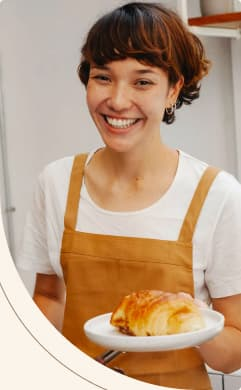
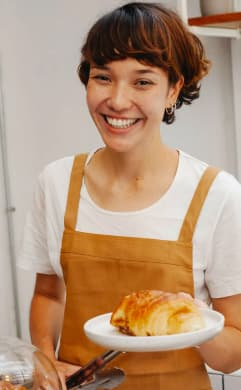
added pseudo ellements

Changed region(s): [[0.0, 0.5231, 0.7842, 1.0], [0.9876, 0.9846, 1.0, 1.0], [0.9876, 0.0, 1.0, 0.0308]]

diff --git a/index.html b/index.html
@@ -88,31 +88,43 @@
           <h2 class="section-title cookers-section-title">
             Наші найкращі<span class="accent"> шеф -кухарі</span>
           </h2>
-          <ul>
-            <li>
-              <article>
-                <img src="./images/Nastya.jpg" alt="Фотографія кухаря Настя" />
-                <h3 class="cookers-title">Настя</h3>
-                <div class="cookers-section-text">
-                  <p>Привіт, я Настя!</p>
-                  <p>Вже 10 років, я втілюю у життя цікаві та смачні ідеї.</p>
-                  <p>Я випечу для вас найсмачніщі вироби!</p>
+          <ul class="cookers-list">
+            <li class="cookers-item">
+              <article class="cookers-card">
+                <img
+                  src="./images/Nastya.jpg"
+                  alt="Фотографія кухаря Настя"
+                  class="cookers-img"
+                />
+                <div class="cookers-article-text">
+                  <h3 class="cookers-title">Настя</h3>
+                  <div class="cookers-section-text">
+                    <p>Привіт, я Настя!</p>
+                    <p>Вже 10 років, я втілюю у життя цікаві та смачні ідеї.</p>
+                    <p>Я випечу для вас найсмачніщі вироби!</p>
+                  </div>
                 </div>
               </article>
             </li>
-            <li>
-              <article>
-                <img src="./images/Vlad.jpg" alt="Фотографія кухаря Влад" />
-                <h3 class="cookers-title">Влад</h3>
-                <div class="cookers-section-text">
-                  <p>Привіт, я Влад!</p>
-                  <p>
-                    Мій кодитерський стаж вже 18 років.
-                    <span lang="en" class="toUppercase">SHOP BEKERY</span> - це
-                    наша любов, з якою ми ділимось кожен раз з Вами через нашу
-                    випічку!
-                  </p>
-                  <p>Я зроблю для вас унікальну начинку на будь який смак!</p>
+            <li class="cookers-item">
+              <article class="cookers-card">
+                <img
+                  src="./images/Vlad.jpg"
+                  alt="Фотографія кухаря Влад"
+                  class="cookers-img"
+                />
+                <div class="cookers-article-text">
+                  <h3 class="cookers-title">Влад</h3>
+                  <div class="cookers-section-text">
+                    <p>Привіт, я Влад!</p>
+                    <p>
+                      Мій кодитерський стаж вже 18 років.
+                      <span lang="en" class="toUppercase">SHOP BEKERY</span> -
+                      це наша любов, з якою ми ділимось кожен раз з Вами через
+                      нашу випічку!
+                    </p>
+                    <p>Я зроблю для вас унікальну начинку на будь який смак!</p>
+                  </div>
                 </div>
               </article>
             </li>
@@ -176,82 +188,92 @@
       </section>
       <section id="contacts-section" class="contacts-section section">
         <div class="container">
-          <h2 class="section-title contacts-section-title">
-            Приєднуйся до мережі пекарень
-          </h2>
-          <p class="contacts-text">Заповни форму, щоб ми звʼязались з тобою!</p>
-          <form>
-            <button type="submit" class="button">Замовити дзвінок</button>
-            <p>
-              Натискаючи на кнопку я погоджуюсь з
-              <a href="#">політикою конфіденційності</a>
-            </p>
-          </form>
-          <iframe
-            src="https://www.google.com/maps/embed?pb=!1m18!1m12!1m3!1d2540.1638712576932!2d30.488658576850792!3d50.45667308691524!2m3!1f0!2f0!3f0!3m2!1i1024!2i768!4f13.1!3m3!1m2!1s0x40d4ce637bfe1717%3A0x5370c2254ad1b952!2z0LLRg9C70LjRhtGPINCh0ZbRh9C-0LLQuNGFINCh0YLRgNGW0LvRjNGG0ZbQsiwgNTQsINCa0LjRl9CyLCAwMjAwMA!5e0!3m2!1suk!2sua!4v1699448868243!5m2!1suk!2sua"
-            width="603"
-            height="595"
-            style="border: 0"
-            allowfullscreen=""
-            loading="lazy"
-            referrerpolicy="no-referrer-when-downgrade"
-          ></iframe>
+          <div class="contacts-container">
+            <div class="contaxt-text">
+              <h2 class="section-title contacts-section-title">
+                Приєднуйся до мережі пекарень
+              </h2>
+              <p class="contacts-text">
+                Заповни форму, щоб ми звʼязались з тобою!
+              </p>
+              <form>
+                <button type="submit" class="button">Замовити дзвінок</button>
+                <p>
+                  Натискаючи на кнопку я погоджуюсь з
+                  <a href="#">політикою конфіденційності</a>
+                </p>
+              </form>
+            </div>
+            <iframe
+              src="https://www.google.com/maps/embed?pb=!1m18!1m12!1m3!1d2540.1638712576932!2d30.488658576850792!3d50.45667308691524!2m3!1f0!2f0!3f0!3m2!1i1024!2i768!4f13.1!3m3!1m2!1s0x40d4ce637bfe1717%3A0x5370c2254ad1b952!2z0LLRg9C70LjRhtGPINCh0ZbRh9C-0LLQuNGFINCh0YLRgNGW0LvRjNGG0ZbQsiwgNTQsINCa0LjRl9CyLCAwMjAwMA!5e0!3m2!1suk!2sua!4v1699448868243!5m2!1suk!2sua"
+              width="603"
+              height="595"
+              style="border: 0"
+              allowfullscreen=""
+              loading="lazy"
+              referrerpolicy="no-referrer-when-downgrade"
+            ></iframe>
+          </div>
         </div>
       </section>
     </main>
     <footer class="footer">
       <div class="container">
-        <nav>
-          <a href="/">
-            <img src="./images/logo.svg" alt="Логотип пекарні" />
-          </a>
-          <ul>
-            <li>
-              <a class="link" href="#traditions-section">Наші традиції</a>
-            </li>
-            <li><a class="link" href="#cookers-section">Шеф-кухарі</a></li>
-            <li><a class="link" href="#formats-section">Формати</a></li>
-            <li><a class="link" href="#contacts-section">Контакти</a></li>
-          </ul>
-        </nav>
-        <address>
-          <ul>
-            <li>
-              <a class="adres-link" href="tel:+380960000007"
-                >+ 38 (096) 000 00 07</a
-              >
-            </li>
-            <li>
-              <a class="adres-link" href="mailto:shopbakery@gmail.com"
-                >shopbakery@gmail.com</a
-              >
-            </li>
-            <li>
-              <a
-                class="adres-link"
-                href="https://maps.app.goo.gl/7E9DDUXA1wABu7uU9"
-                target="_blank"
-                >Україна, м. Київ, вул. Січових Стрільців 54</a
-              >
-            </li>
-            <li>
-              <a href="#"></a
-              ><img
-                src="./images/facebook_black_logo.svg"
-                alt="Іконка Facebook"
-              />
-            </li>
-            <li>
-              <a href="#"></a
-              ><img
-                src="./images/instagram_black_logo.svg"
-                alt="Іконка Instagram"
-              />
-            </li>
-          </ul>
-        </address>
-        <a href="#" target="_blank">Політика конфіденційності</a>
-        <p>&copy; 2022 Дані захищені</p>
+        <div class="footer-container">
+          <nav class="footer-nav">
+            <a href="/">
+              <img src="./images/logo.svg" alt="Логотип пекарні" />
+            </a>
+            <ul>
+              <li>
+                <a class="link" href="#traditions-section">Наші традиції</a>
+              </li>
+              <li><a class="link" href="#cookers-section">Шеф-кухарі</a></li>
+              <li><a class="link" href="#formats-section">Формати</a></li>
+              <li><a class="link" href="#contacts-section">Контакти</a></li>
+            </ul>
+          </nav>
+          <address>
+            <ul>
+              <li>
+                <a class="adres-link" href="tel:+380960000007"
+                  >+ 38 (096) 000 00 07</a
+                >
+              </li>
+              <li>
+                <a class="adres-link" href="mailto:shopbakery@gmail.com"
+                  >shopbakery@gmail.com</a
+                >
+              </li>
+              <li>
+                <a
+                  class="adres-link"
+                  href="https://maps.app.goo.gl/7E9DDUXA1wABu7uU9"
+                  target="_blank"
+                  >Україна, м. Київ, вул. Січових Стрільців 54</a
+                >
+              </li>
+              <li>
+                <a href="#"></a
+                ><img
+                  src="./images/facebook_black_logo.svg"
+                  alt="Іконка Facebook"
+                />
+              </li>
+              <li>
+                <a href="#"></a
+                ><img
+                  src="./images/instagram_black_logo.svg"
+                  alt="Іконка Instagram"
+                />
+              </li>
+            </ul>
+          </address>
+          <div class="privacy-policy">
+            <a href="#" target="_blank">Політика конфіденційності</a>
+            <p>&copy; 2022 Дані захищені</p>
+          </div>
+        </div>
       </div>
     </footer>
   </body>

diff --git a/css/styles.css b/css/styles.css
@@ -150,6 +150,10 @@ p {
 
 .hero-section {
   padding: 272px 0;
+  background-image: url(../images/couple-in-bakery.jpg);
+  background-repeat: no-repeat;
+  background-position: center top;
+  background-size: cover;
 }
 
 .hero-title {
@@ -262,6 +266,21 @@ address {
 .cookers-section-title,
 .formats-section-title {
   margin-bottom: 80px;
+  text-align: center;
+}
+
+.cookers-section-title {
+  max-width: 540px;
+  margin-left: auto;
+  margin-right: auto;
+}
+
+.cookers-section-title::before,
+.cookers-section-title::after {
+  display: block;
+  content: '';
+  width: 352px;
+  border: 2px solid var(--color-secondary-light);
 }
 
 .contacts-section-title,
@@ -276,7 +295,7 @@ address {
 
 .formats-card {
   border-radius: 16px;
-  border: #31261a solid 1px;
+  /* border: #31261a solid 1px; */
 
   background: linear-gradient(
     180deg,
@@ -300,6 +319,54 @@ address {
   flex-basis: calc((100% - 40px) / 3);
 }
 
+.cookers-list {
+  display: flex;
+  flex-wrap: wrap;
+  gap: 16px;
+}
+
+.cookers-item {
+  display: flex;
+  flex-basis: calc((100% - 16px) / 2);
+}
+
+.cookers-card {
+  display: flex;
+}
+
+.cookers-img {
+  margin-right: 30px;
+  border-radius: 4px 4px 4px 200px;
+  box-shadow: -16px 16px 0 0 var(--color-primary-light),
+    -16px 16px 0 2px var(--color-secondary-dark);
+}
+
+.contacts-container {
+  display: flex;
+  gap: 32px;
+}
+
+.contaxt-text {
+  flex-basis: calc((100% - 32px) / 2);
+}
+
 .footer {
   padding: 32px 0;
+  flex-grow: 1;
+
+  background-color: var(--color-primary-dark);
+  background-image: url(../images/background-footer.png);
+  background-repeat: no-repeat;
+  background-position: center top;
+  background-size: cover;
+}
+
+.footer-container {
+  display: flex;
+  gap: 166px;
+}
+
+.footer-nav {
+  display: flex;
+  gap: 166px;
 }
